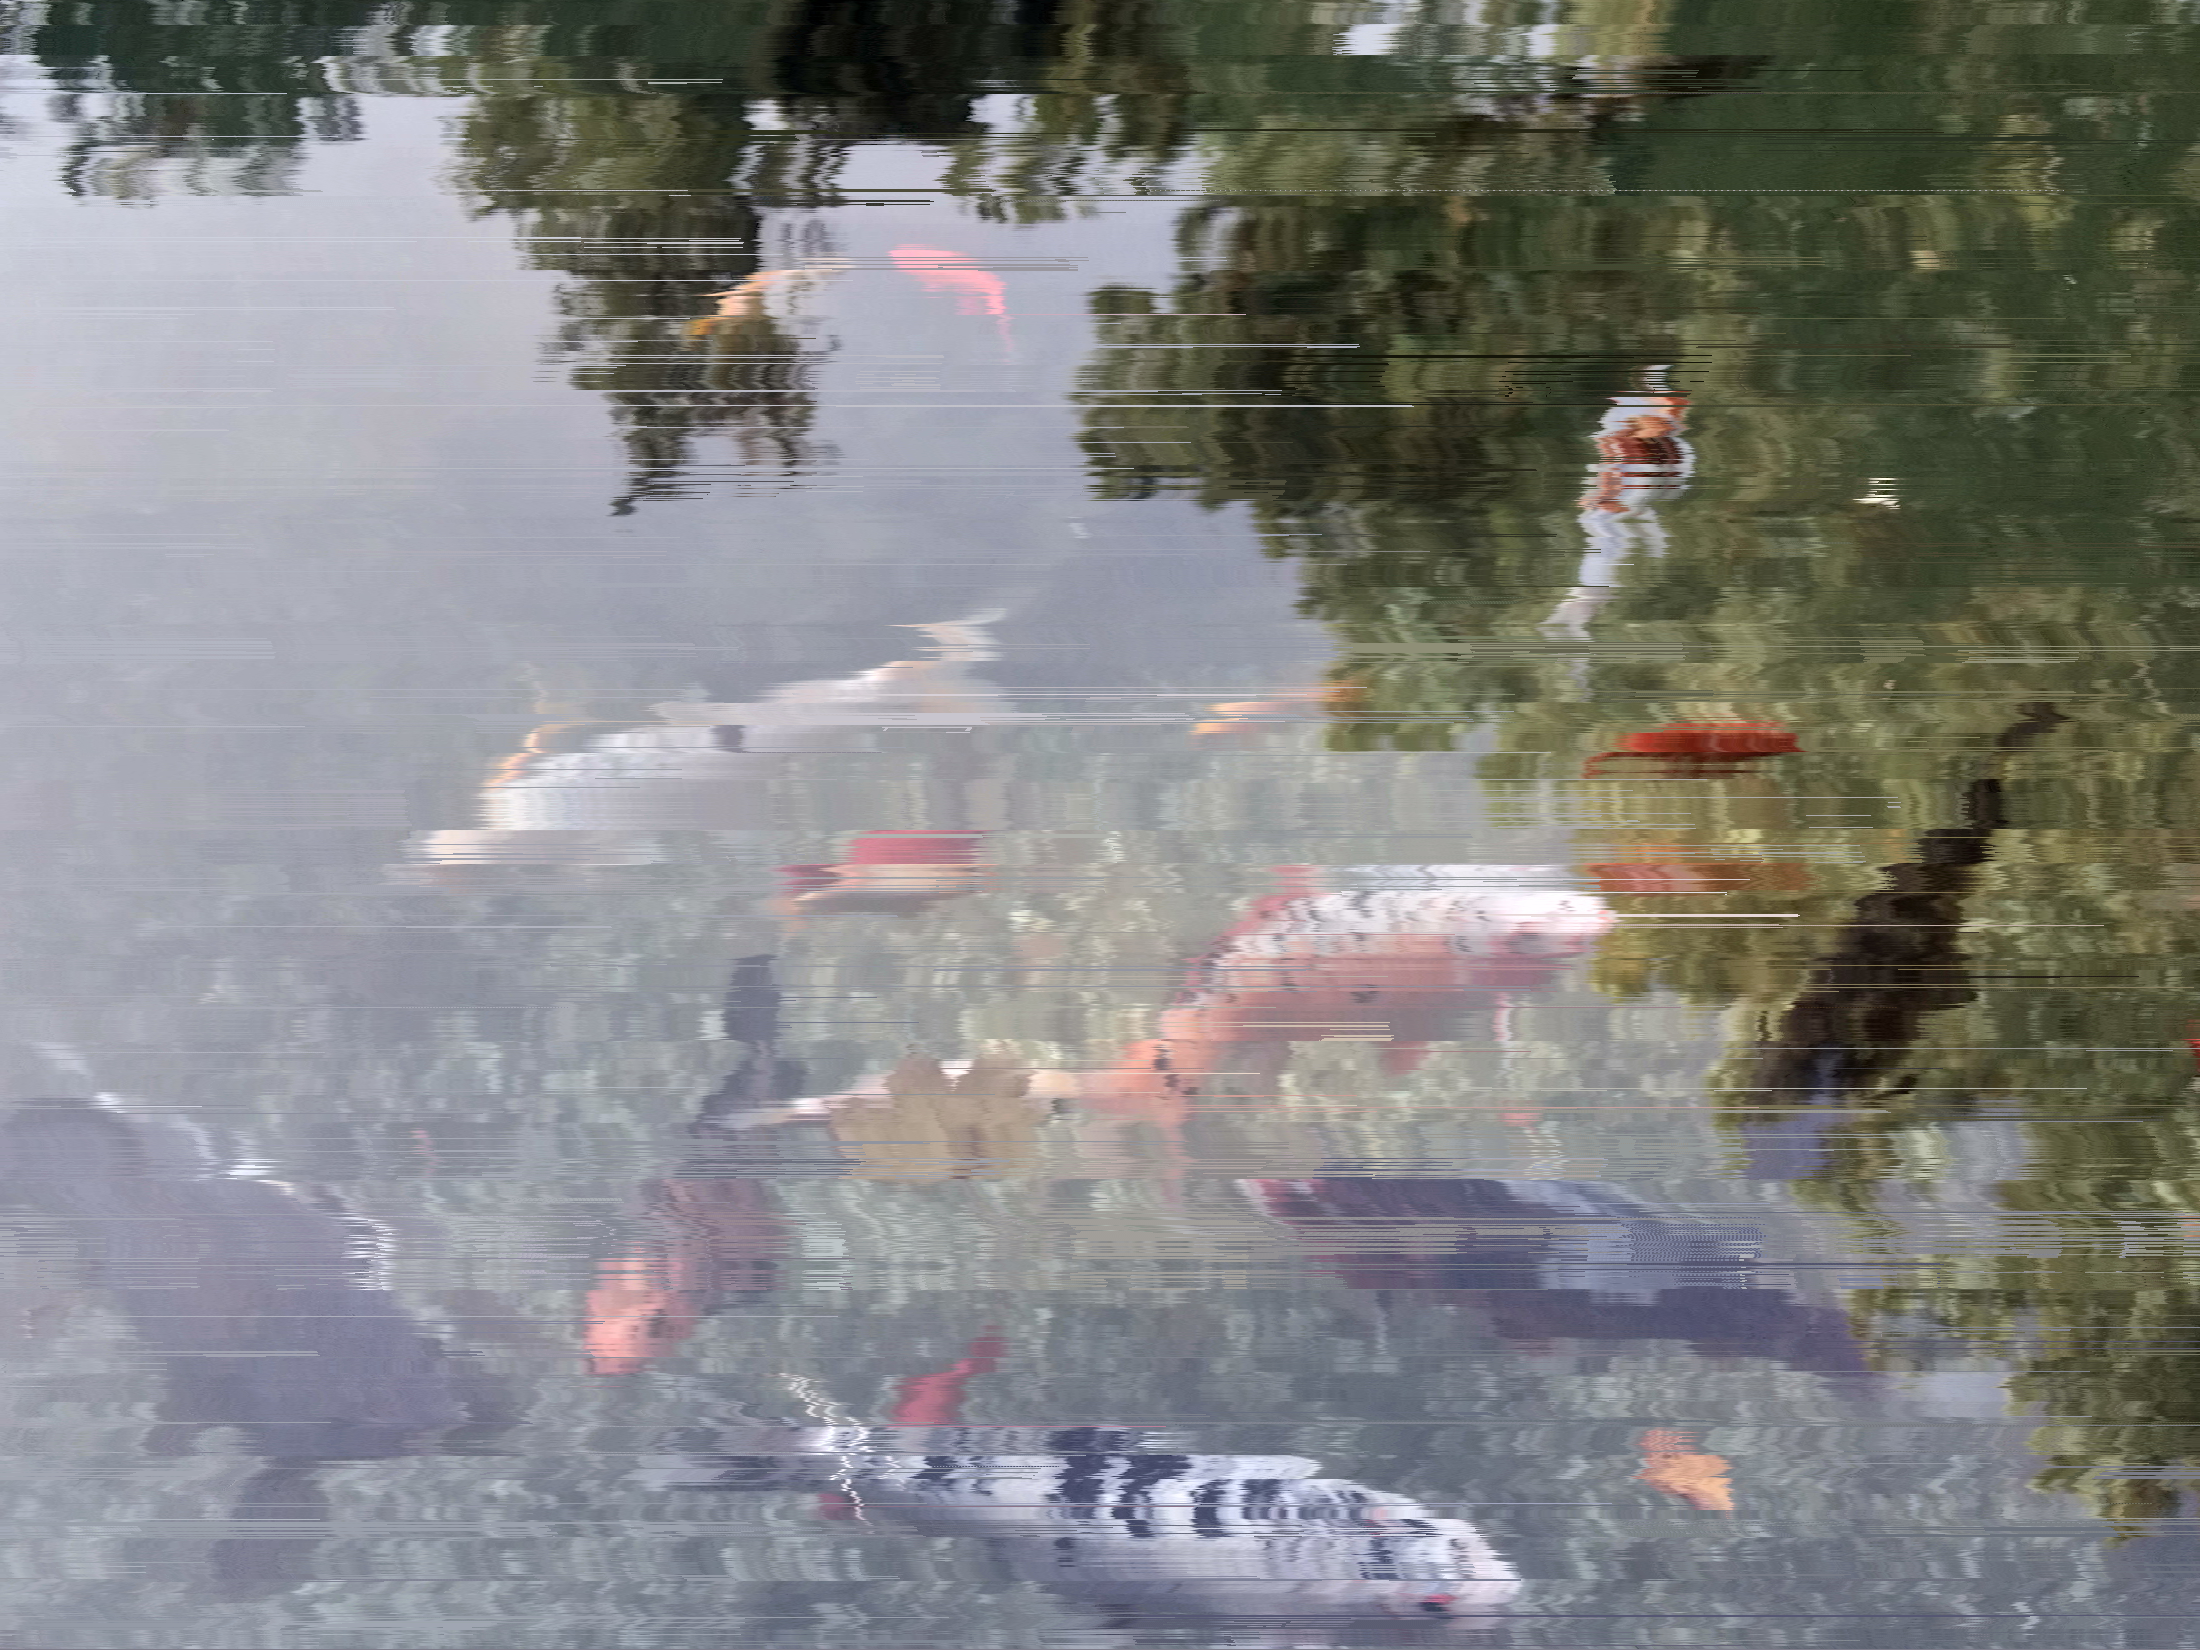
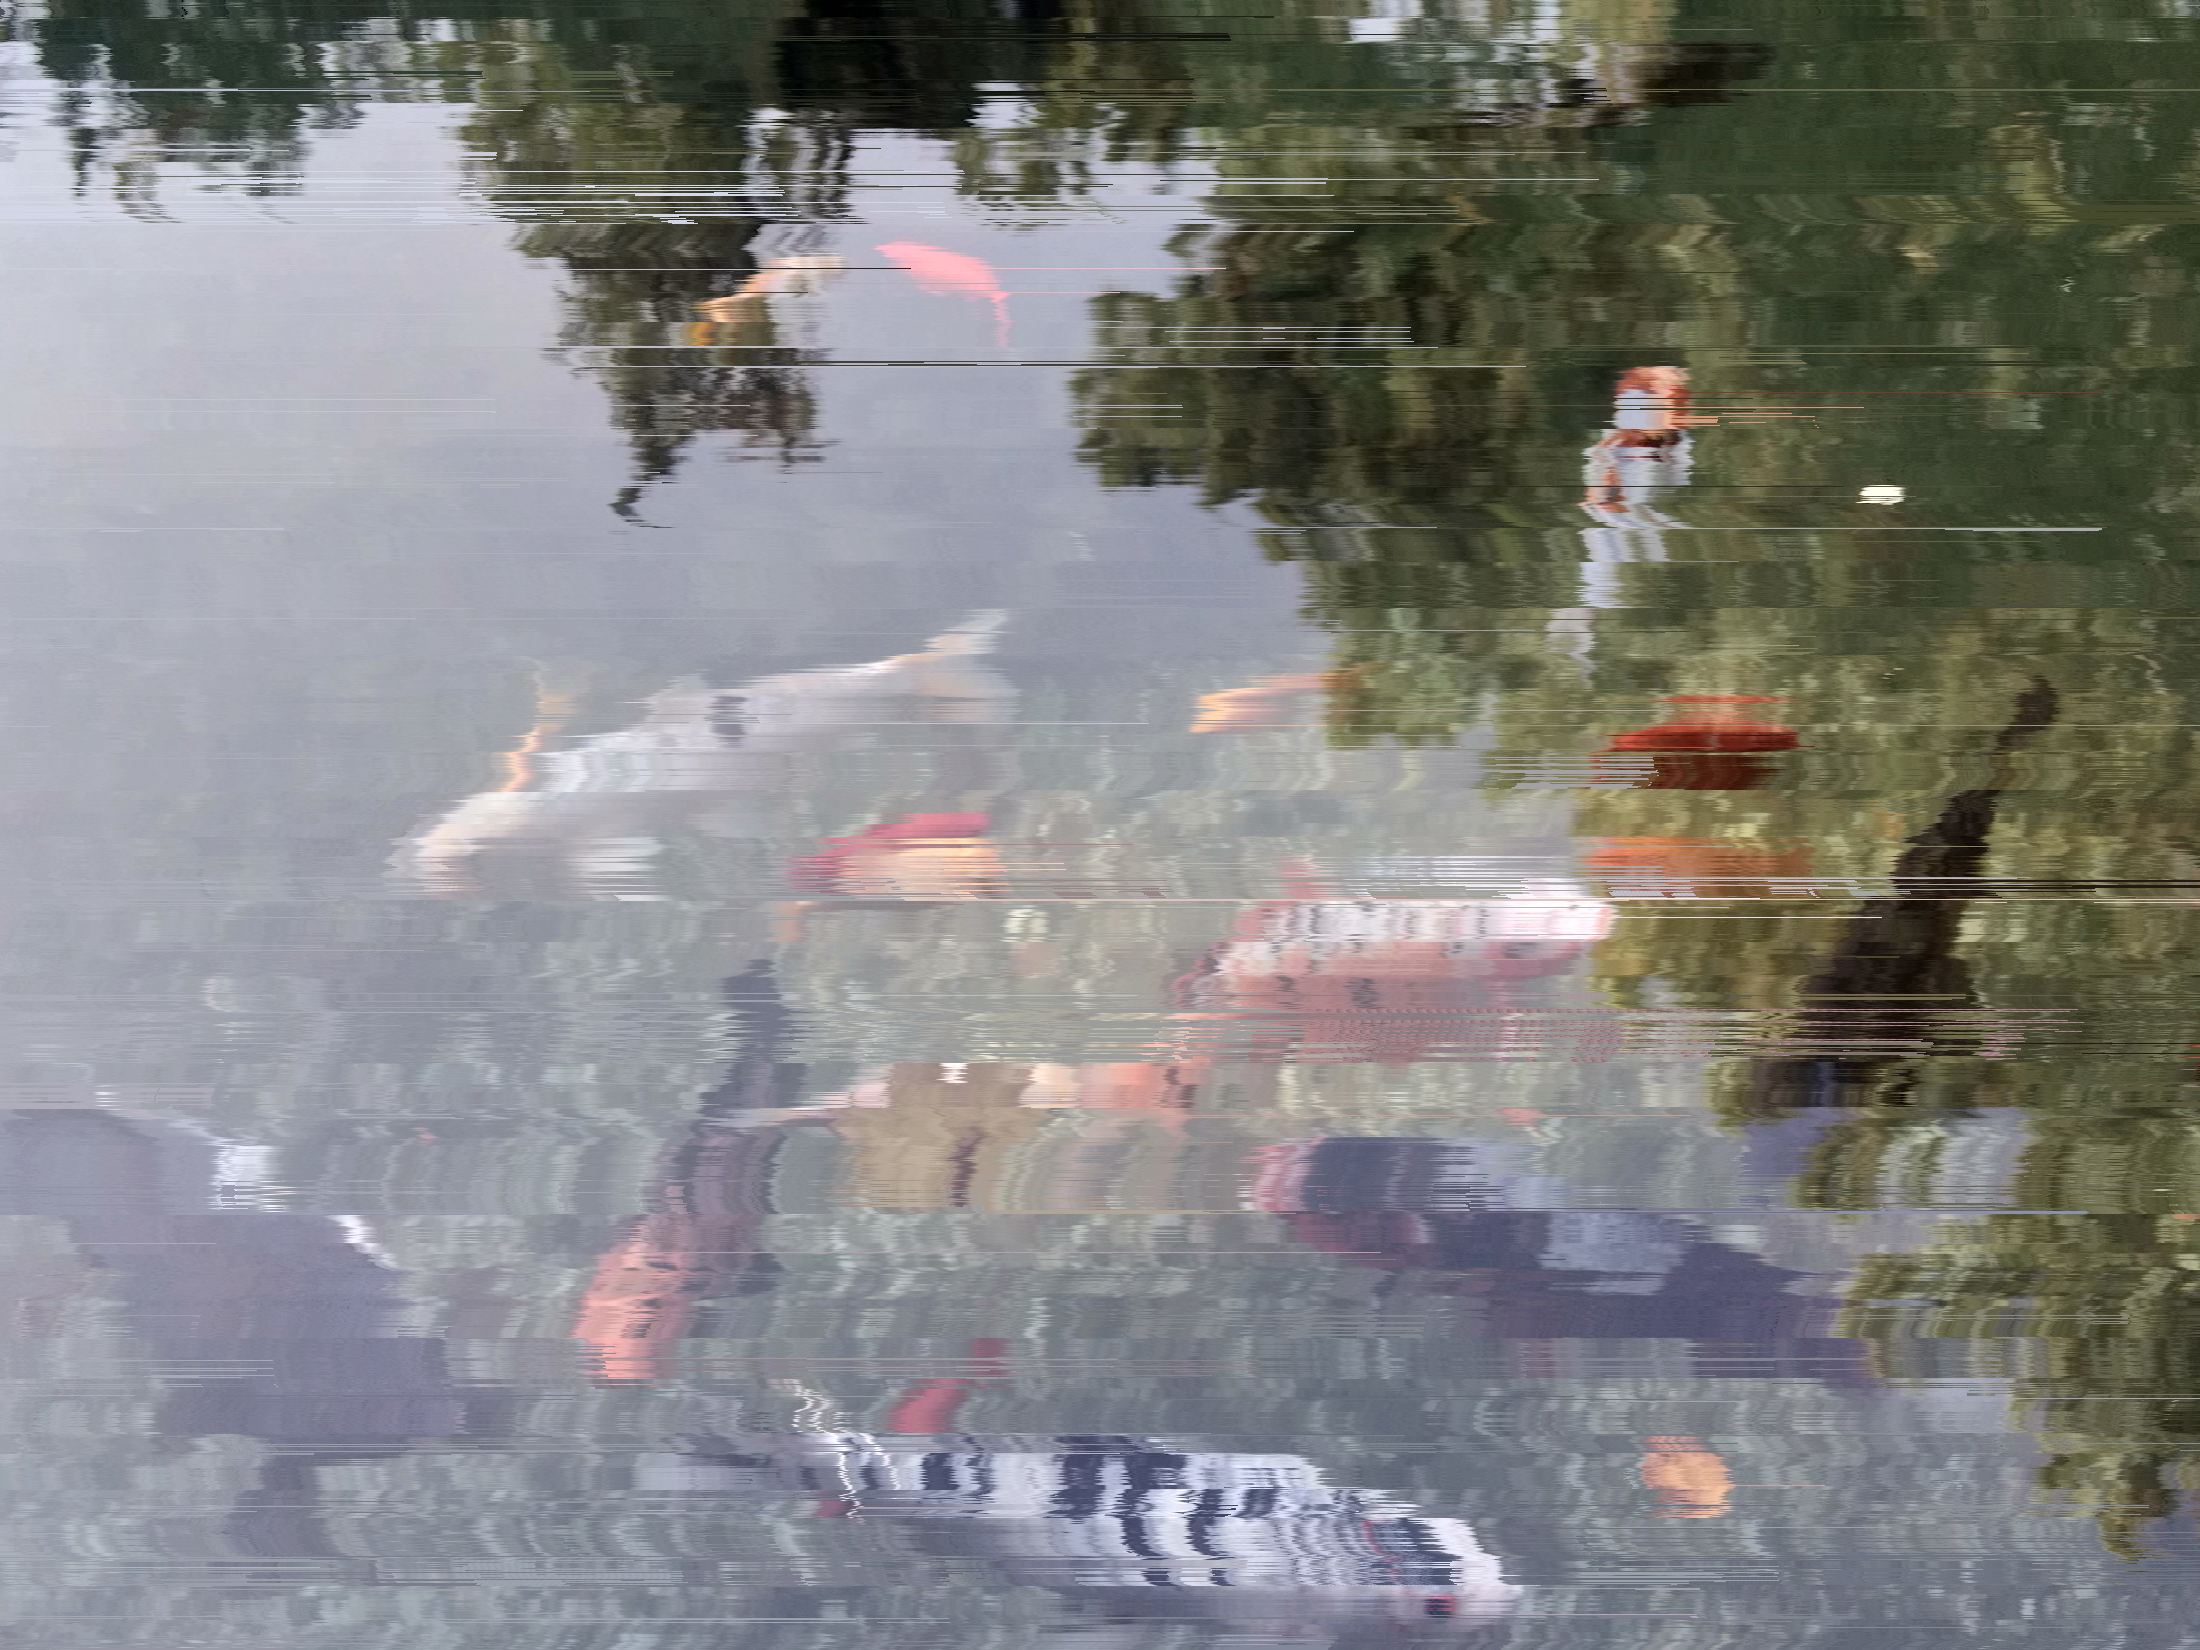
more args for glitching

diff --git a/src/glitch.rs b/src/glitch.rs
@@ -11,7 +11,7 @@ fn clamp(val: i16, min: i16, max: i16) -> i16 {
 }
 
 impl Glitch {
-    pub fn glitching_file(filename: String) {
+    pub fn glitching_file(filename: String, x_factor: u16, y_factor: u16) {
         let mut buf = image::open(&Path::new(&filename)).unwrap().to_rgb8();
         println!("dimensions {:?}", buf.dimensions());
     
@@ -22,10 +22,10 @@ impl Glitch {
     
         for y in 0..h {
             for x in 0..w {
-                if rand::random::<u16>() < 100 {
+                if rand::random::<u16>() < x_factor {
                     xoff += rng.gen_range(-1..2);
                 }
-                if rand::random::<u16>() < 500 {
+                if rand::random::<u16>() < y_factor {
                     yoff += rng.gen_range(-1..2);
                 }
                 if rand::random::<u16>() < 10 {
@@ -43,7 +43,7 @@ impl Glitch {
         let _ = DynamicImage::ImageRgb8(buf).save(&out_filename);
         println!("Saved => {0}", out_filename);
     }
-    pub fn glitching_buf(buf: &mut RgbImage) -> &mut RgbImage {
+    pub fn glitching_buf(buf: &mut RgbImage, x_factor: u16, y_factor: u16) -> &mut RgbImage {
         let (w, h) = buf.dimensions();
         let mut xoff: i16 = 0;
         let mut yoff: i16 = 0;
@@ -51,10 +51,10 @@ impl Glitch {
     
         for y in 0..h {
             for x in 0..w {
-                if rand::random::<u16>() < 100 {
+                if rand::random::<u16>() < x_factor {
                     xoff += rng.gen_range(-1..2);
                 }
-                if rand::random::<u16>() < 500 {
+                if rand::random::<u16>() < y_factor {
                     yoff += rng.gen_range(-1..2);
                 }
                 if rand::random::<u16>() < 10 {

diff --git a/src/main.rs b/src/main.rs
@@ -39,7 +39,7 @@ fn main() {
     Utils::get_random_int_inclusive(0, 100);
     img.save("imgs/visual_poetry.jpg").ok();
     println!("Image visual_poetry.jpg saved");
-    Glitch::glitching_file("imgs/fishes.jpg".to_string());
-    Glitch::glitching_buf(&mut img).save("imgs/visual_poetry_glitch.jpg").ok();
+    Glitch::glitching_file("imgs/fishes.jpg".to_string(), 100, 500);
+    Glitch::glitching_buf(&mut img, 20, 200).save("imgs/visual_poetry_glitch.jpg").ok();
     println!("Image visual_poetry_glitch.jpg saved");
 }
